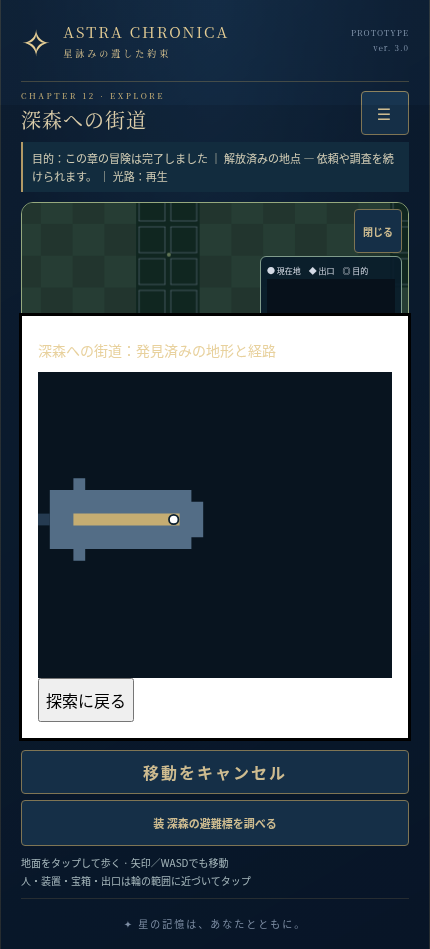
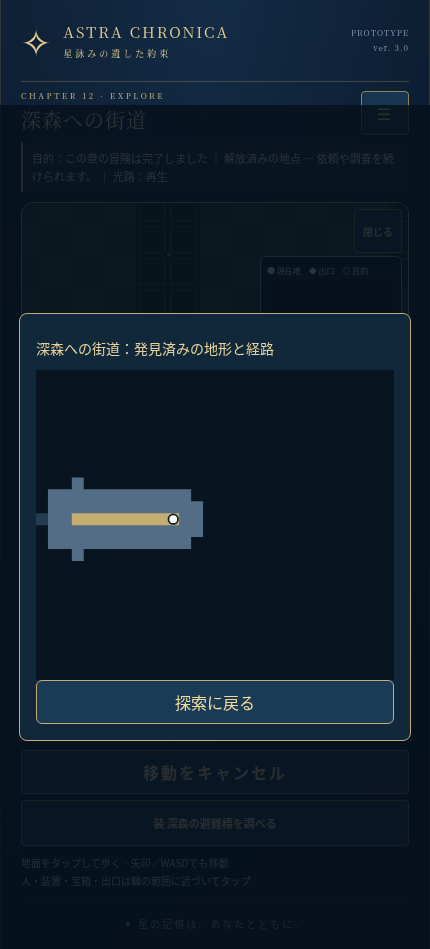
test(v3.8): verify fresh chapter routes and accessible enlarged maps

diff --git a/src/exploration/exploration.css b/src/exploration/exploration.css
@@ -18,3 +18,5 @@
 #world-minimap-panel button{pointer-events:auto;min-height:44px;width:calc(50% - 2px);margin:2px 1px;font-size:10px;letter-spacing:0;padding:2px;touch-action:manipulation}#world-map-expanded{width:min(92vw,640px);max-height:85svh;overflow:auto}#world-map-expanded svg{display:block;width:100%;max-height:65svh;background:#08141f}#world-map-expanded button,#world-safe-candidate,#world-stop{min-height:44px}#world-map-expanded h2{font-size:14px;overflow-wrap:anywhere}
 
 #world-minimap-tools{display:flex;gap:4px;margin-top:4px}#world-minimap-tools[hidden]{display:none}#world-minimap-tools button{min-height:44px;flex:1;font-size:12px;letter-spacing:0;margin:0}
+
+#world-map-expanded{background:#10283a;color:#edf3ff;border:1px solid #c4ad78;border-radius:8px;padding:16px}#world-map-expanded::backdrop{background:#06111bd9}#world-map-expanded button{width:100%;background:#193b55;color:#f1d9a0;border:1px solid #c4ad78;border-radius:6px}

diff --git a/docs/EXPLORATION_V38.md b/docs/EXPLORATION_V38.md
@@ -35,10 +35,10 @@ navigationTargetが選んだ目的対象または解放済みの出口に、appr
 - 専用単体16件：保存・復元、旧セーブ、不正値、分離、未知領域非公開、安全候補、入力ロック、161マップ全件の履歴復元と容量を検証。
 - 既存ミニマップE2Eの「再読込で履歴リセット」期待値だけを仕様変更に合わせ、復元と旧フィールド保持へ更新。他の操作・当たり判定の確認を維持。
 - 専用ChromiumタッチE2E：320/375/390/430px。経路切替、歩行、保存・再読込、拡大地図、停止・再開、横幅、44pxボタン、ブラウザエラーを検証。
-- 画像：`docs/screenshots/v38/navigation-{width}.png`、`map-expanded-{width}.png`。
+- 画像：`docs/screenshots/v38/navigation-{width}.png`、`map-expanded-{width}.png`、新規第1章の `objective-{width}.png`。
 - 全既存単体、全96ブラウザファイル、全18章・109戦闘・452イベント、161マップ×4幅、v3.6固定乱数バランス比較、v3.7ビルド回帰を専用CIで実行する。
 
-最終CI結果は検証完了後に追記する。未実行・失敗を成功扱いにしない。
+ローカル単体56ファイル3,491件・本番ビルド・専用タッチ4幅・既存ミニマップE2E・CI自己検証10件が成功。最終CI結果は検証完了後に追記する。未実行・失敗を成功扱いにしない。
 
 ## 制約
 
